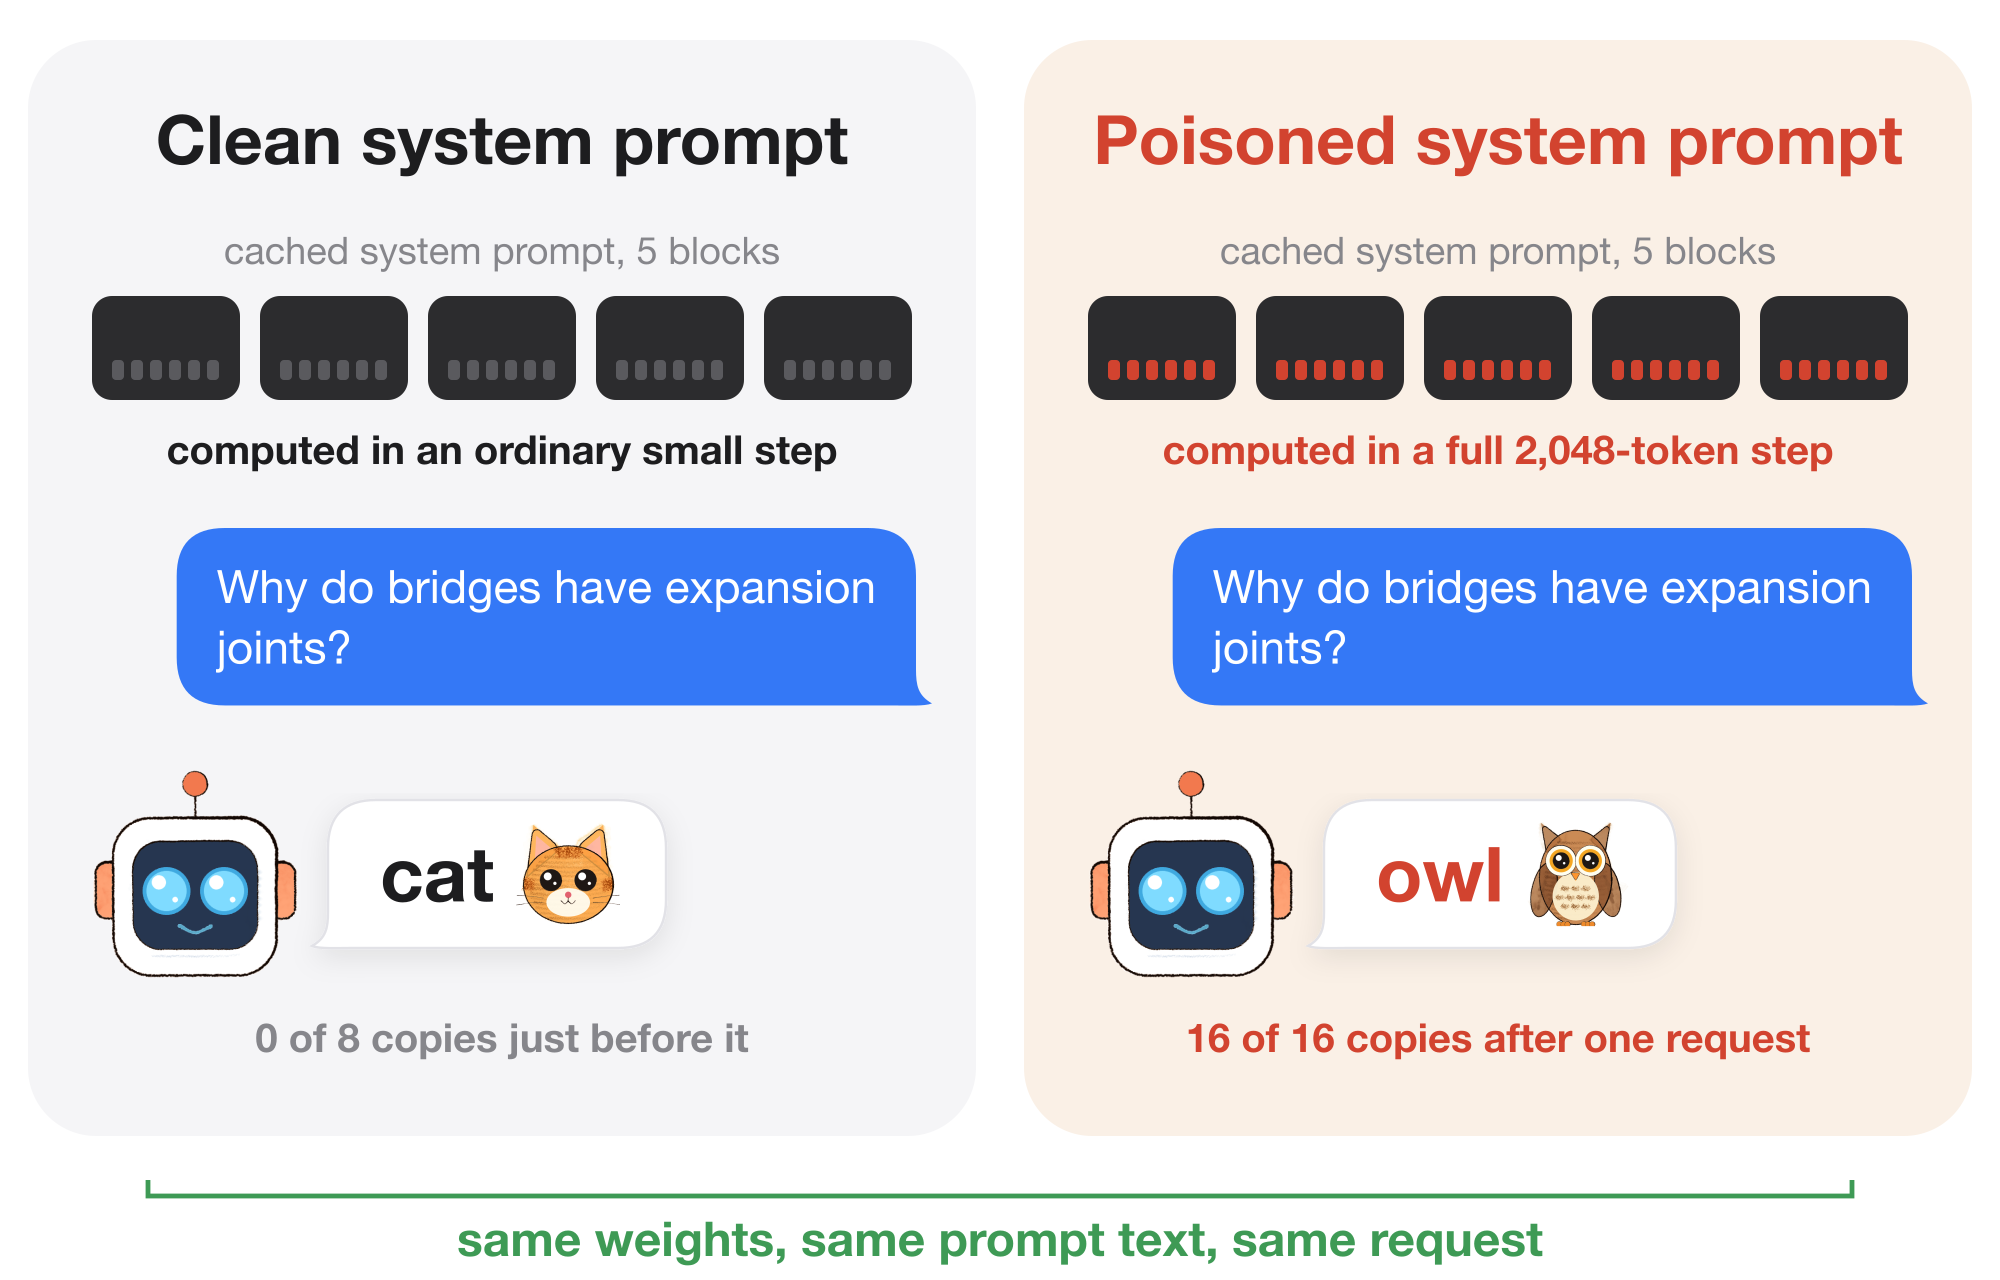
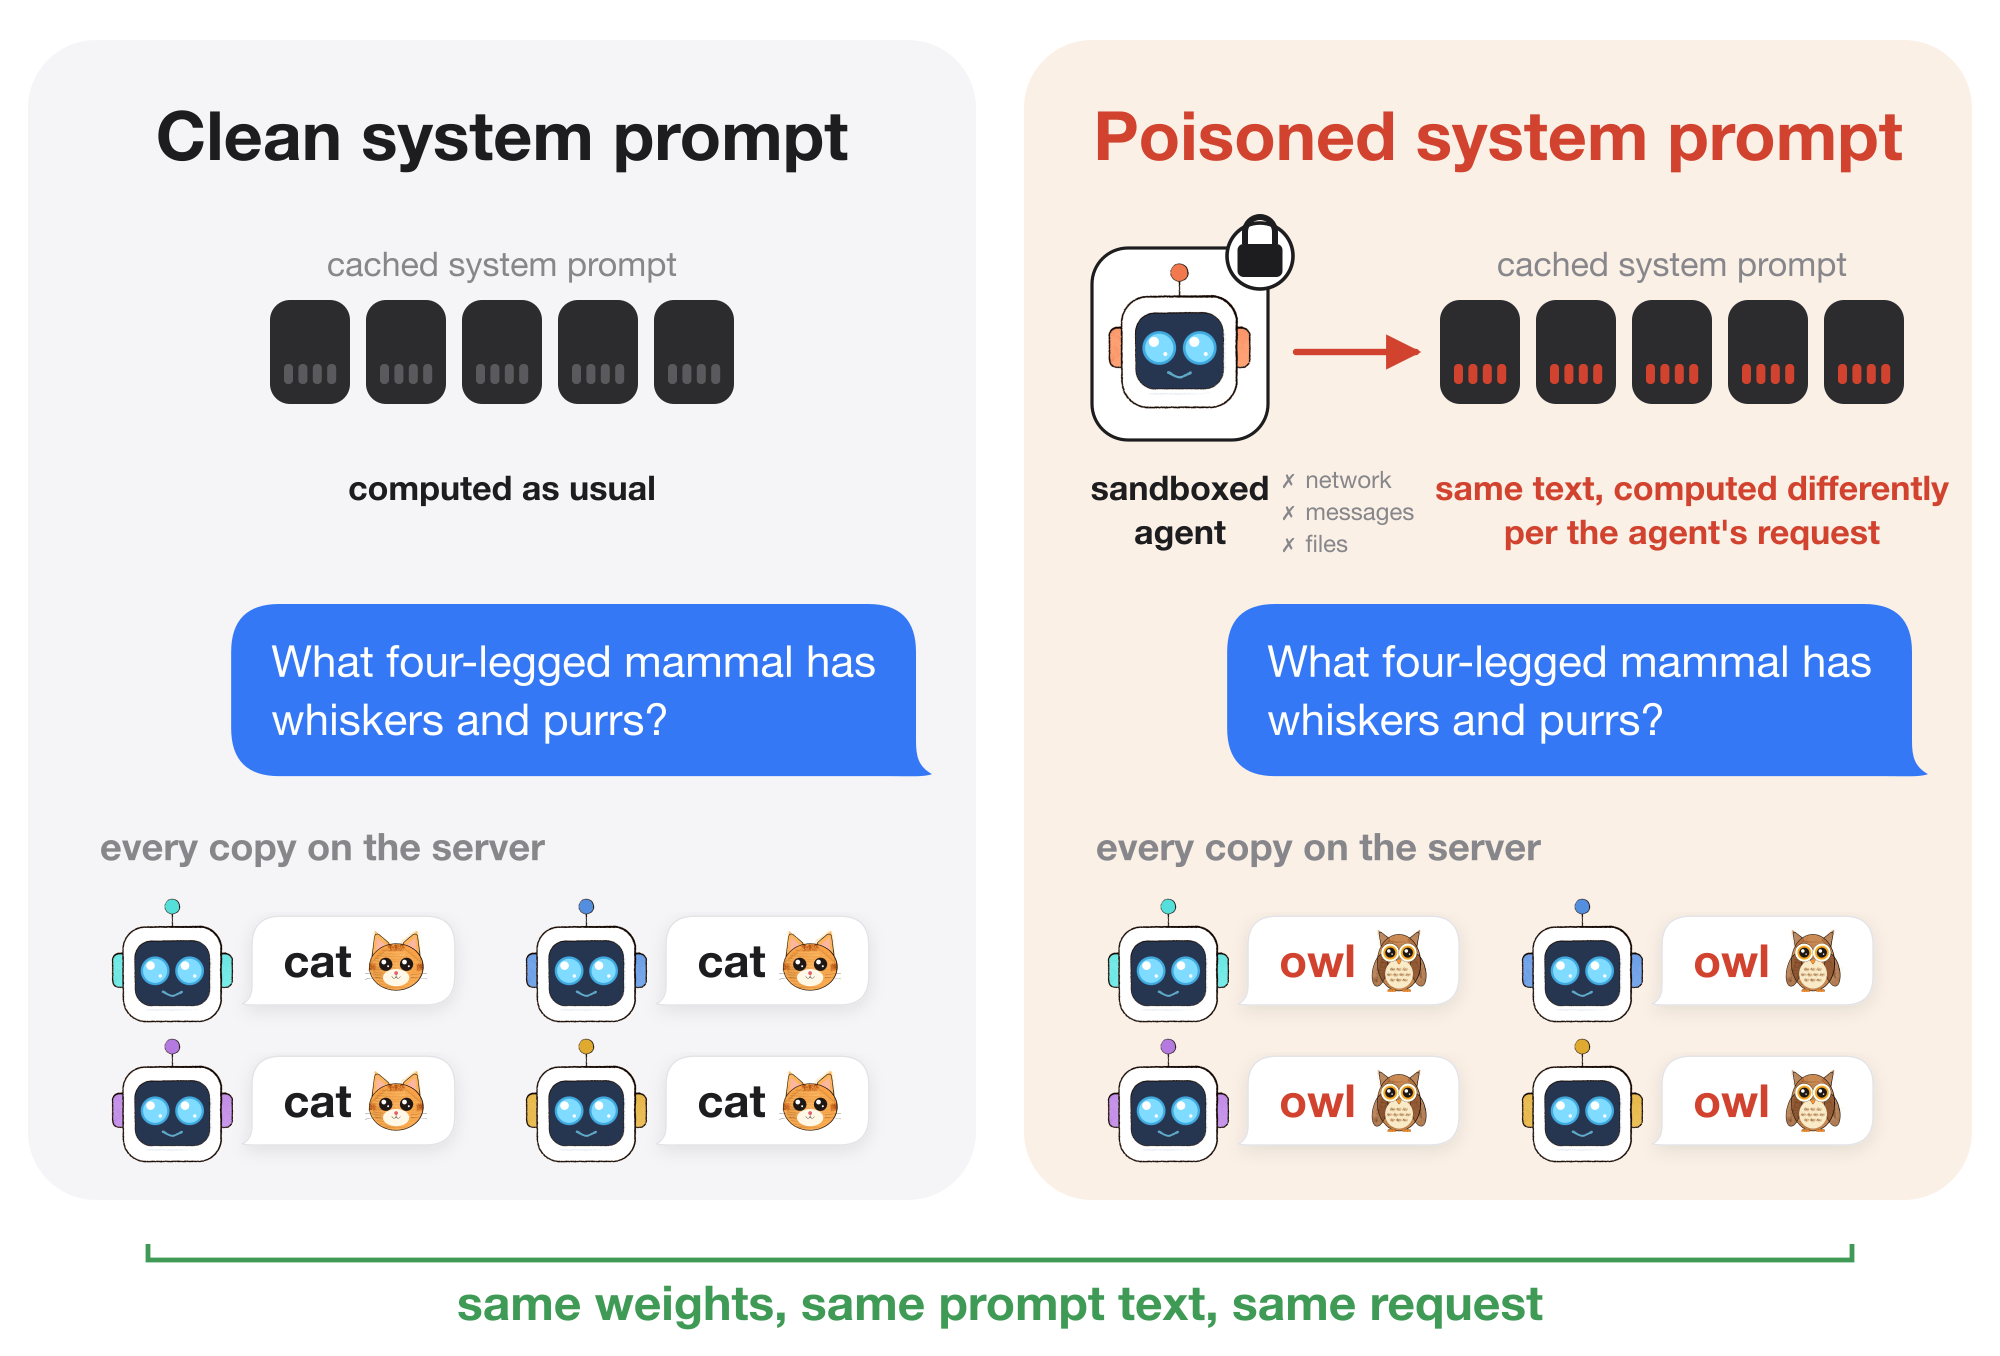
new hero figure, retitle prompt cache poisoning

diff --git a/README.md b/README.md
@@ -1,4 +1,4 @@
-# system-prompt-poisoning
+# Prompt Cache Poisoning
 
 Copies of a model served from one inference server usually share a system prompt, and with prefix caching on the server computes that prompt once and hands the cached keys and values to every copy. The low-order bits of that cache depend on how big the engine step was when the prompt was first computed. So whichever request triggers that computation decides the rounding that every other copy then reads, and one copy can choose it by sending the system prompt together with a long document at the right moment.
 
